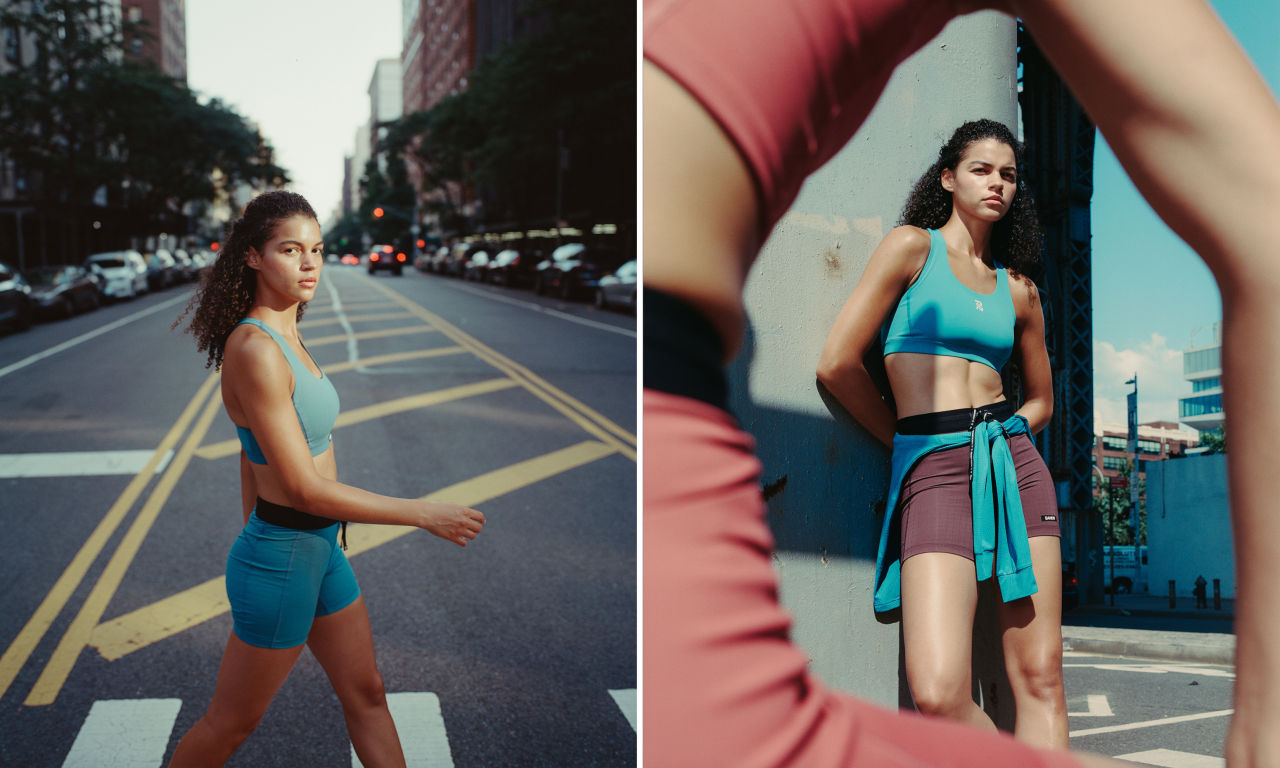
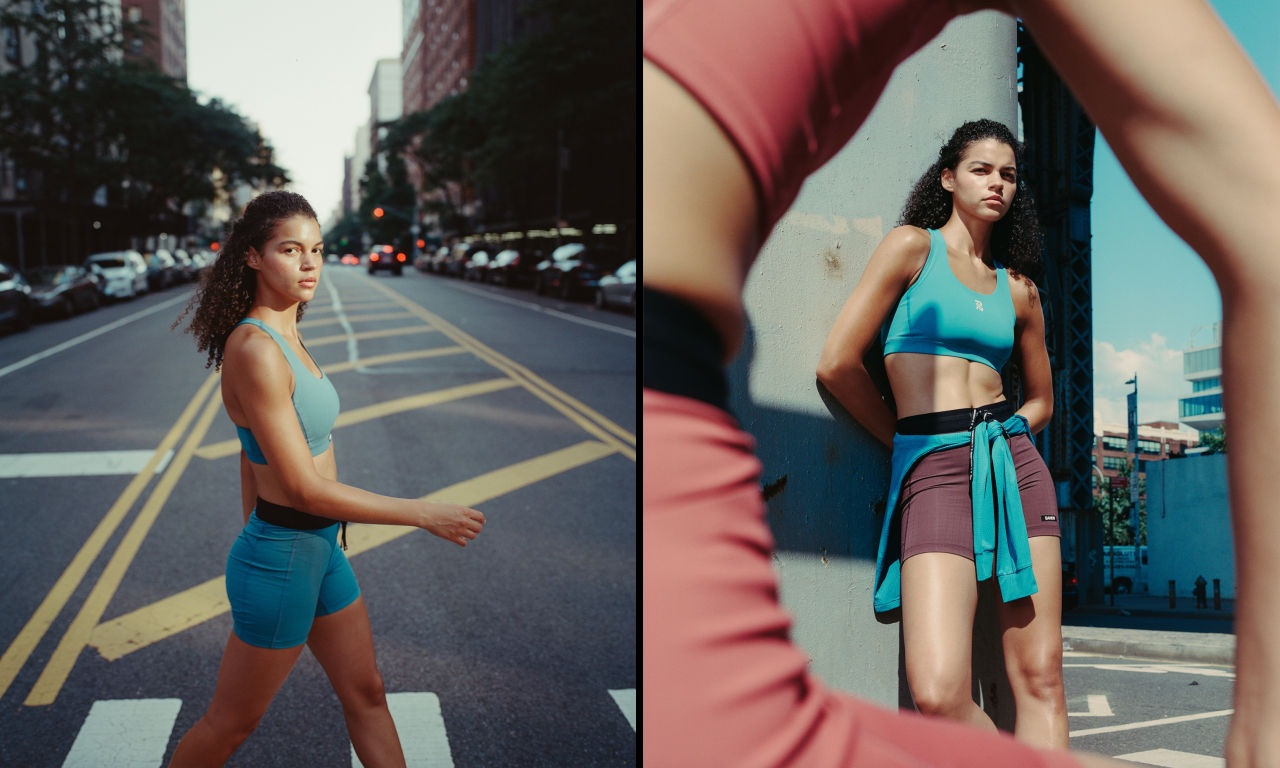
Profile: black gutter between paired BANDIT shots

diff --git a/profile/index.html b/profile/index.html
@@ -366,10 +366,10 @@ footer{padding-block:28px 52px;display:flex;justify-content:space-between;gap:12
 
     <article class="feature">
       <div class="media mix">
-        <img class="wide" src="media/s/bandit-news-2.jpg" alt="BANDIT 러닝웨어를 입고 뉴욕 거리에 선 모델 두 컷" loading="lazy">
+        <img class="wide" src="media/s/bandit-news-2.jpg?v=2" alt="BANDIT 러닝웨어를 입고 뉴욕 거리에 선 모델 두 컷" loading="lazy">
         <img src="media/s/bandit-1.jpg" alt="겨울 아침 공원길을 함께 달리는 러너들" loading="lazy">
         <img src="media/s/bandit-5.jpg" alt="경복궁 앞을 달리는 러너" loading="lazy">
-        <img class="wide" src="media/s/bandit-news-3.jpg" alt="BANDIT 러닝웨어를 입고 뉴욕 도로와 다리 아래에 선 모델 두 컷" loading="lazy">
+        <img class="wide" src="media/s/bandit-news-3.jpg?v=2" alt="BANDIT 러닝웨어를 입고 뉴욕 도로와 다리 아래에 선 모델 두 컷" loading="lazy">
       </div>
       <div>
         <div class="meta"><span class="tag">BRAND COLLAB</span><span class="date">2026.01.12</span></div>
